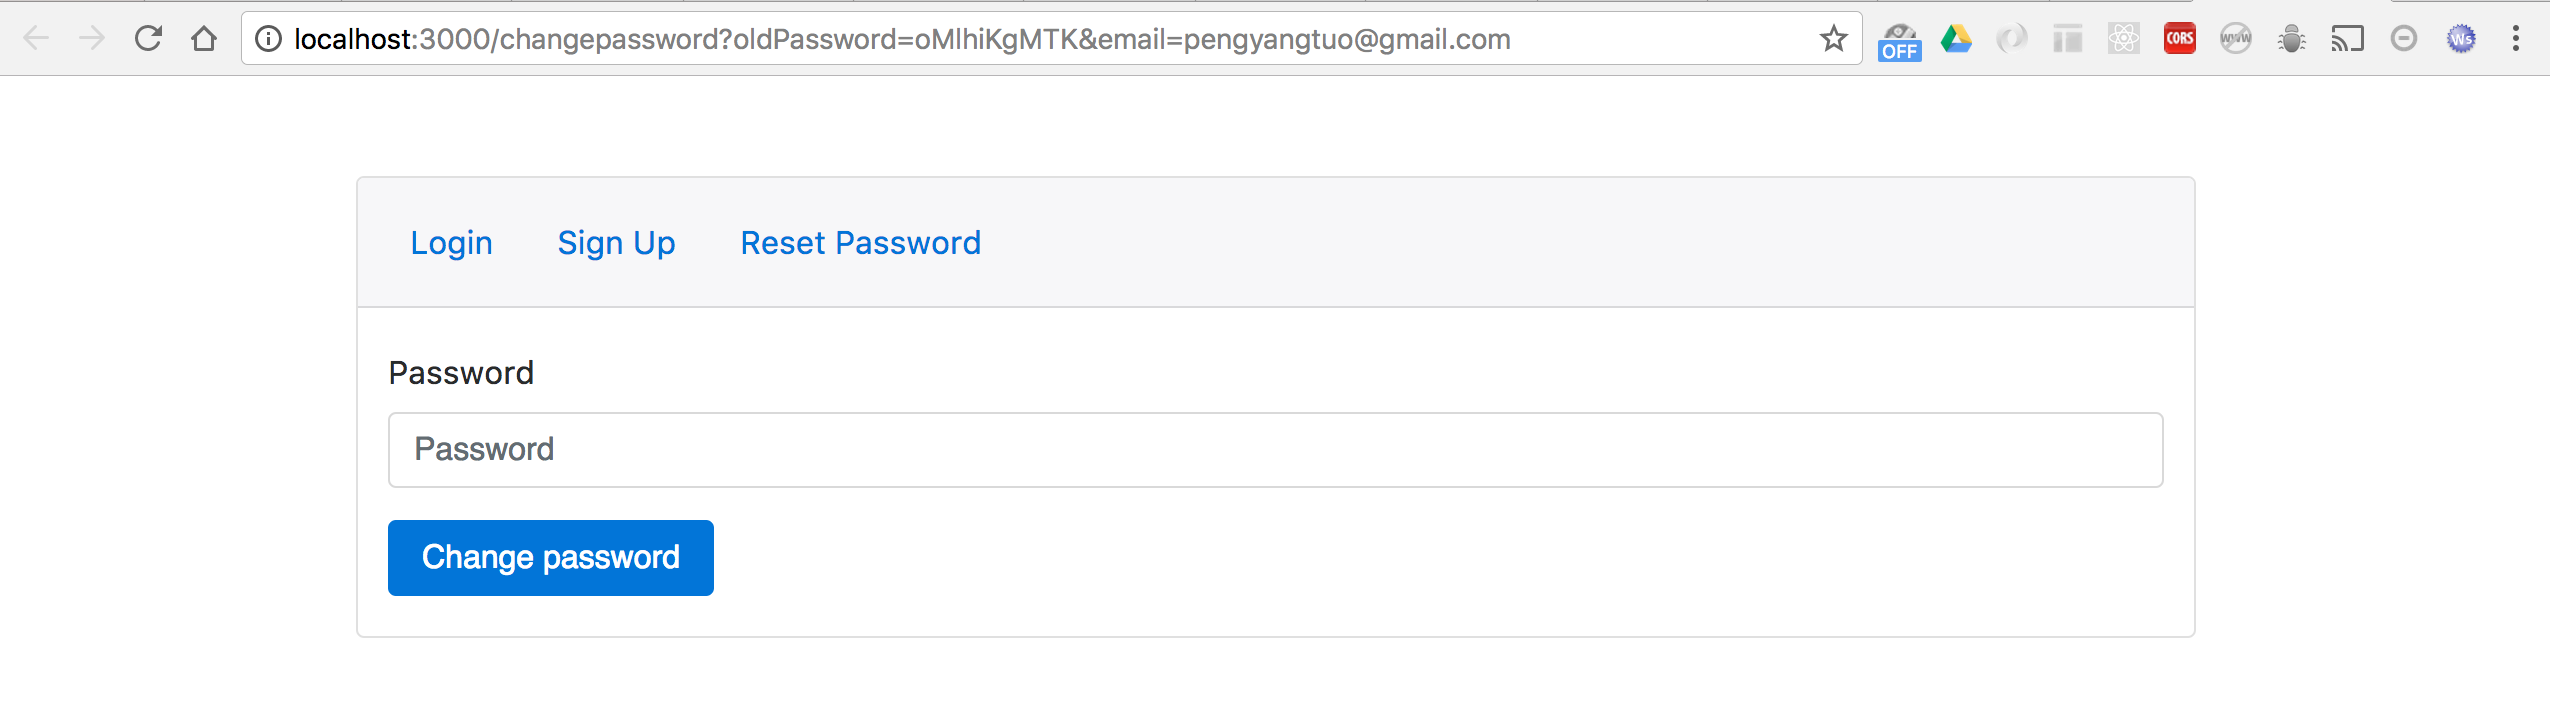
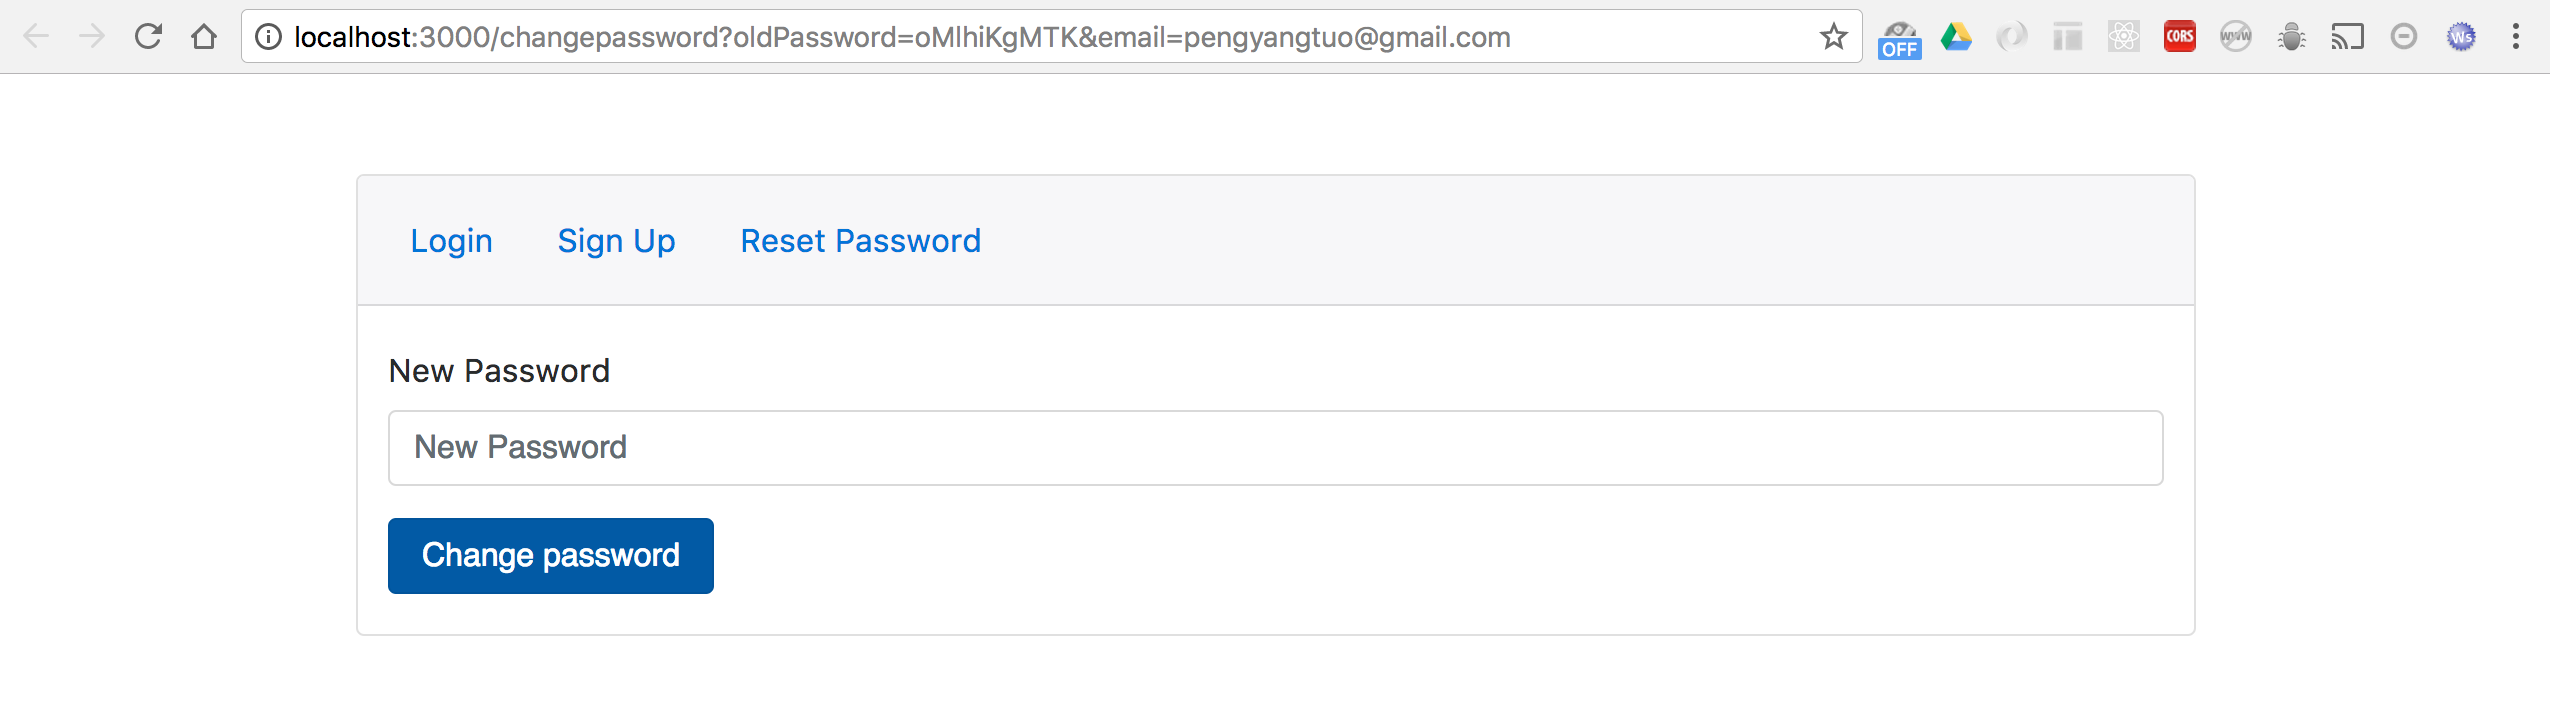
updated typo

diff --git a/src/scenes/login/components/ChangePasswordForm/index.js b/src/scenes/login/components/ChangePasswordForm/index.js
@@ -49,9 +49,9 @@ class ChangePasswordForm extends React.Component {
     return (
       <form>
         <div className="form-group">
-          <label htmlFor="exampleInputPassword1">Password</label>
+          <label htmlFor="exampleInputPassword1">New Password</label>
           <input onChange={this.setPassword} type="password" className="form-control" id="exampleInputPassword1"
-                 placeholder="Password"/>
+                 placeholder="New Password"/>
         </div>
 
         {this.props.login.error &&
